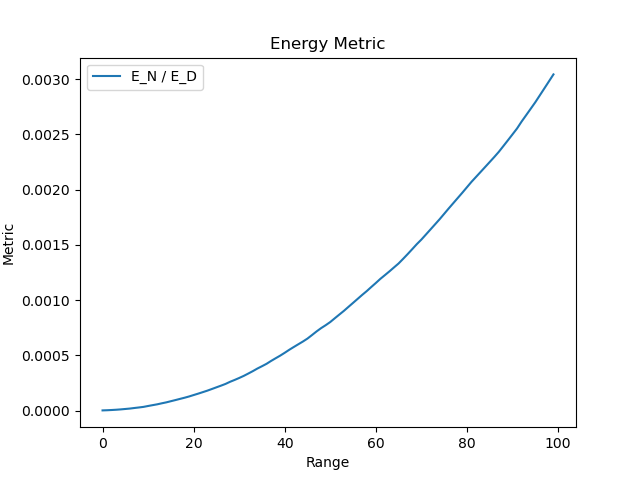
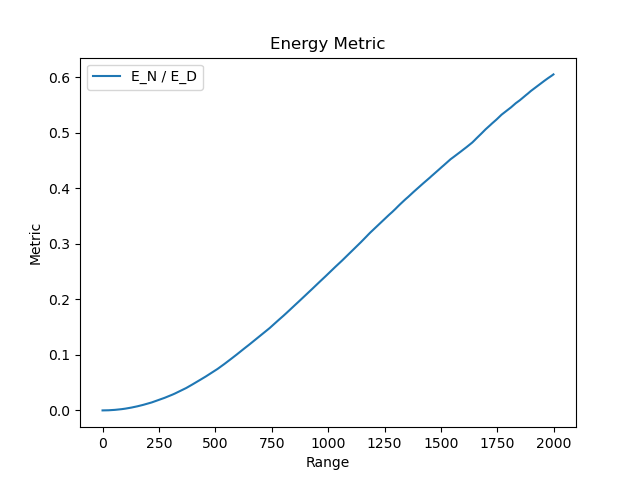
multiplicative metric plot

diff --git a/SimpleSim.py b/SimpleSim.py
@@ -59,7 +59,7 @@ class Controller:
 
 
 if __name__ == "__main__":
-    c = Controller(100, 20)
+    c = Controller(2000, 20)
     # nominal = np.array(odeint(c.dxdt, c.x0, c.t))
     # nominal = np.array([np.linalg.norm(i) for i in nominal])
     # disturbed = np.array(odeint(c.dxdt_disturbed, c.x0, c.t))
@@ -83,10 +83,10 @@ if __name__ == "__main__":
         MM_series.append(c.E_N / c.E_D)
         AM_series.append(c.E_D - c.E_N)
 
-    plt.plot(AM_series, label='E_D - E_N')
+    plt.plot(MM_series, label='E_N / E_D')
     plt.legend()
     plt.title("Energy Metric")
     plt.xlabel('Range')
     plt.ylabel('Metric')
-    plt.savefig('./figures/AM.png')
+    plt.savefig('./figures/MM.png')
     plt.show()
